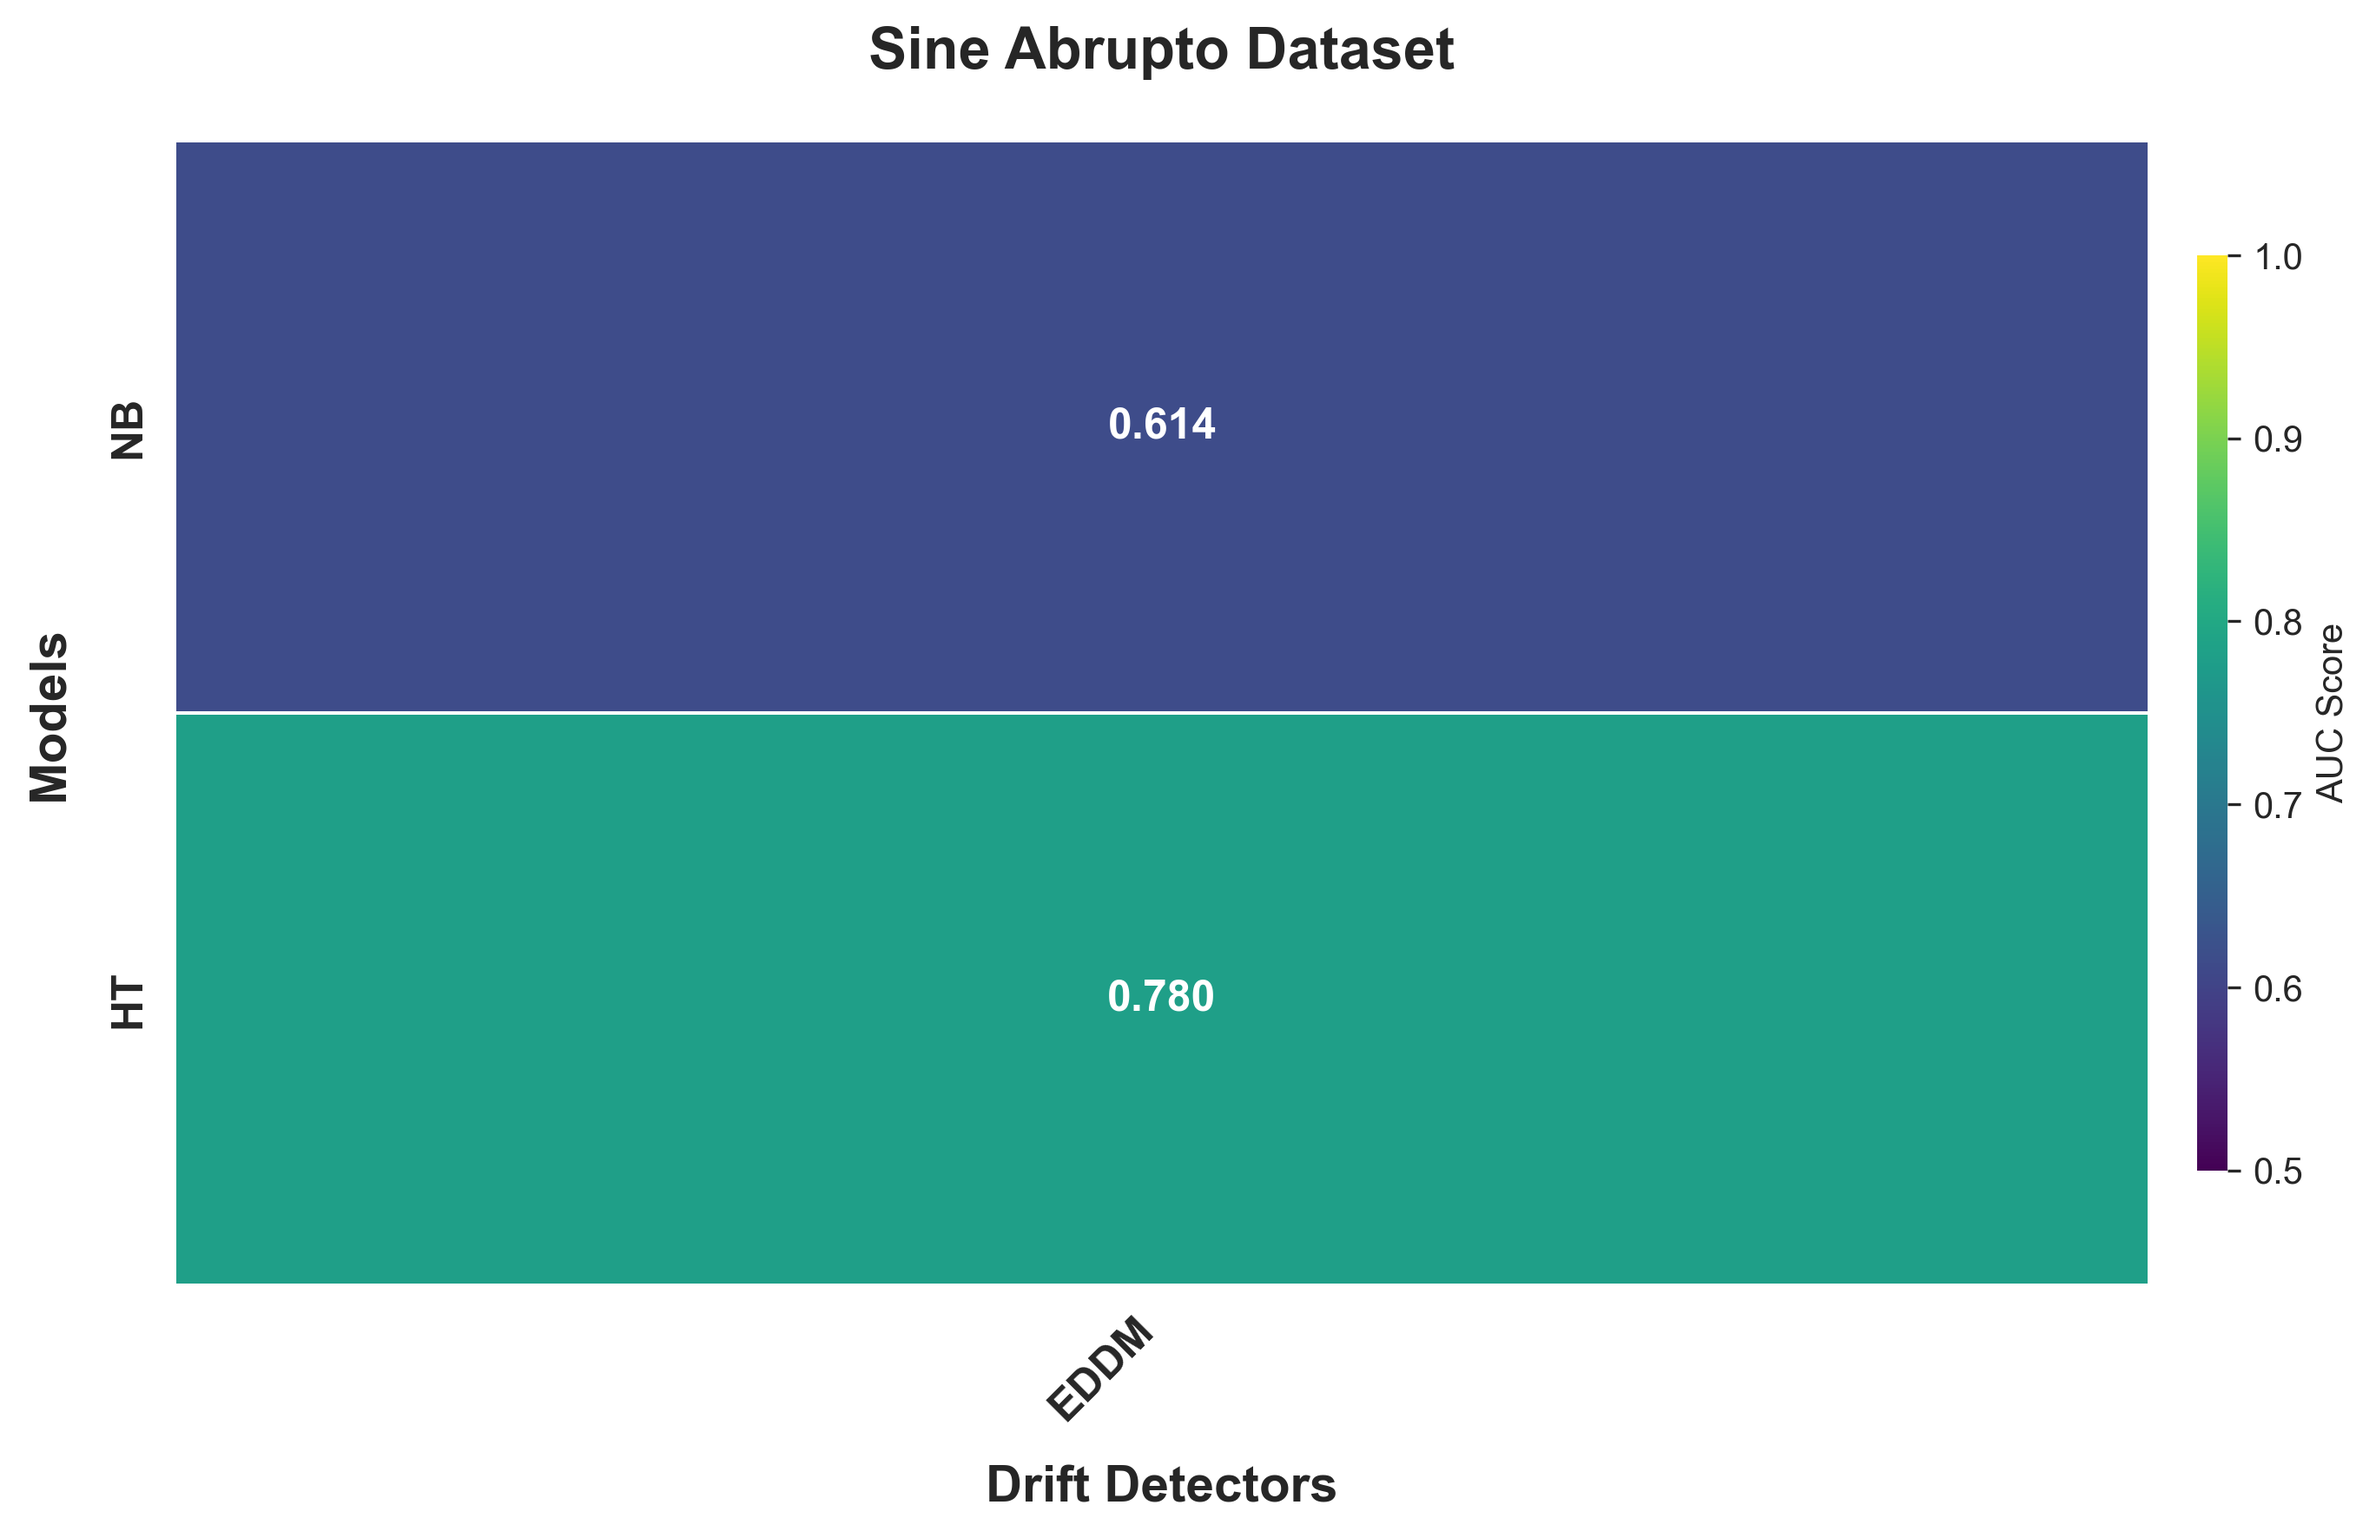
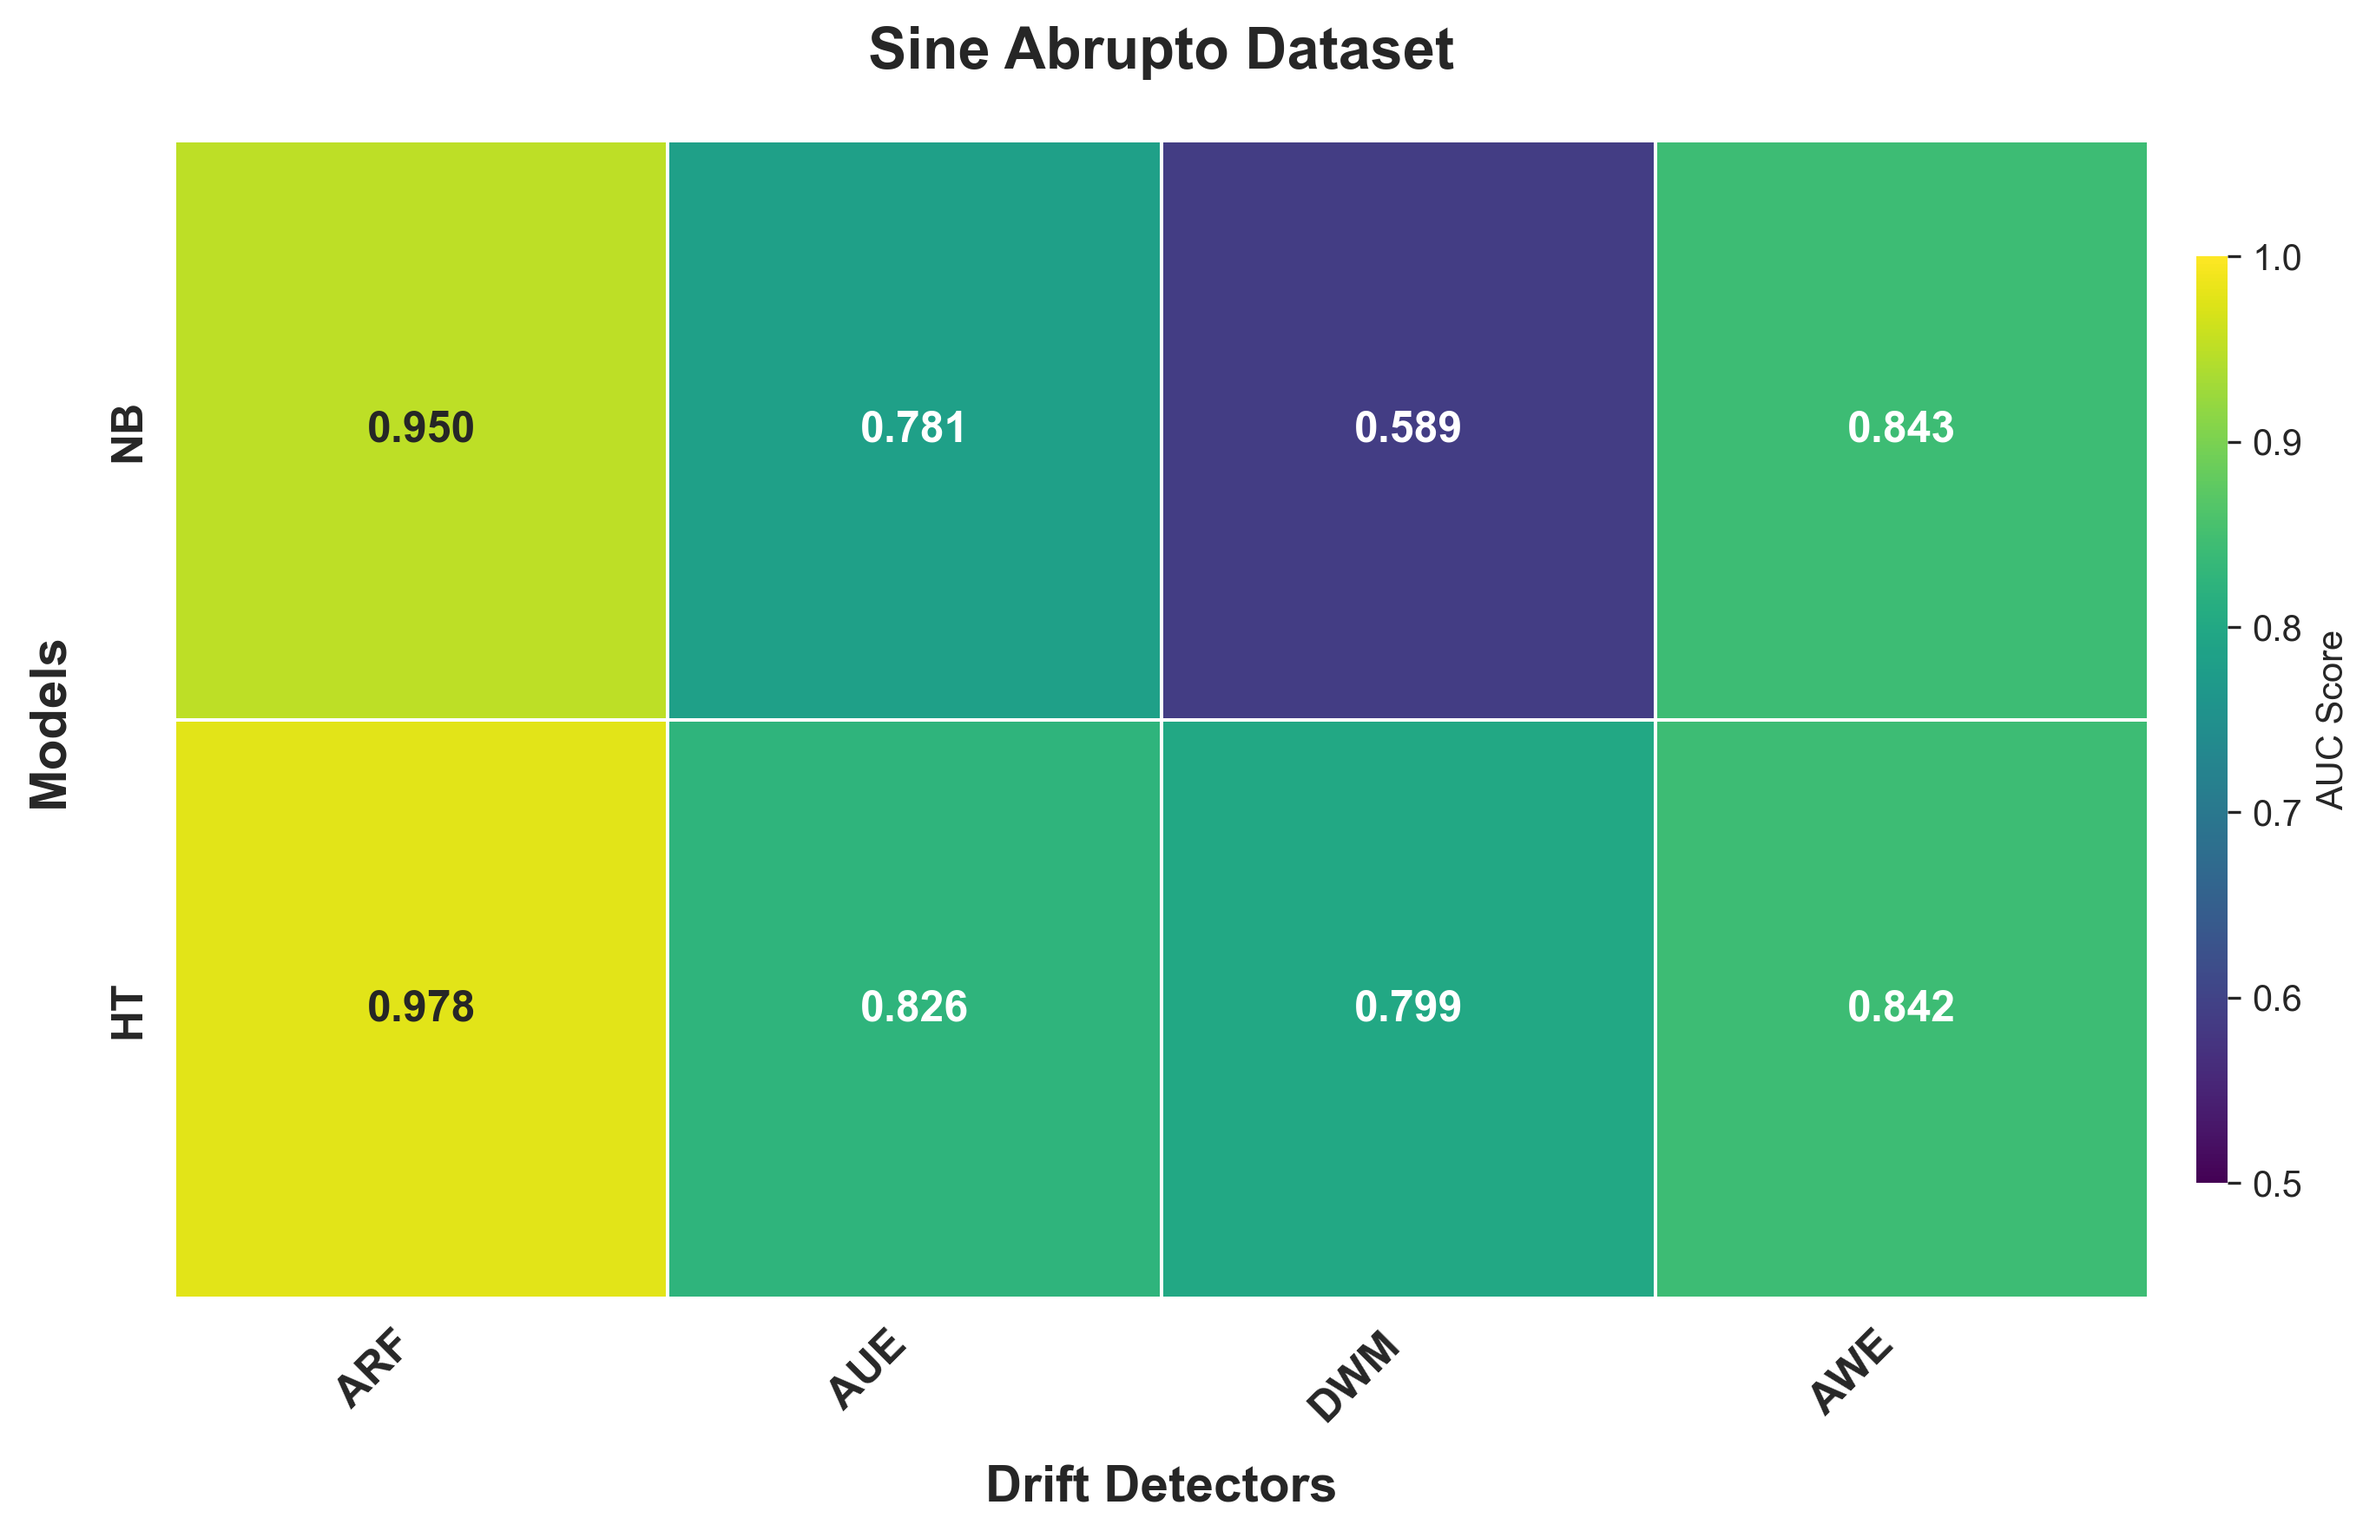
update

diff --git a/concept_drift/d3.py b/concept_drift/d3.py
@@ -7,16 +7,9 @@ import numpy as np
 from typing import Union, List, Tuple, Optional, Literal
 
 class D3DriftDetector:
-    """
-    Discriminative Drift Detector (D3) implementation.
-    
-    This detector identifies concept drift by training a classifier to distinguish
-    between samples from past and current distributions.
-    """
-    
     def __init__(
         self, 
-        window_size: int = 100, 
+        window_size: int = 20, 
         classifier = None, 
         threshold: float = 0.7,
         metric: Literal['accuracy', 'roc_auc'] = 'accuracy'
@@ -36,8 +29,74 @@ class D3DriftDetector:
         self.metric = metric
         self.samples = []
         self.drift_detected = False
+        # track feature keys when samples are dict-like (e.g., River)
+        self.feature_keys = None
         self._validate_params()
         
+    def _to_array(self, samples: List) -> np.ndarray:
+        """
+        Convert a list of samples to a 2D numpy array.
+        Supports samples that are:
+          - dict-like (feature name -> value)
+          - list/tuple/1D numpy arrays (feature vector)
+          - scalar numbers (will be cast to shape (n,1))
+        """
+        if len(samples) == 0:
+            return np.empty((0, 0))
+
+        # If any sample is a dict, construct a feature matrix from dict keys
+        if any(isinstance(s, dict) for s in samples):
+            # compute union of keys across samples to ensure consistent columns
+            keys = sorted(set().union(*(s.keys() for s in samples if isinstance(s, dict))))
+            self.feature_keys = keys
+            rows = []
+            for s in samples:
+                if isinstance(s, dict):
+                    row = []
+                    for k in keys:
+                        v = s.get(k, 0.0)
+                        try:
+                            row.append(float(v))
+                        except Exception:
+                            # fallback to 0.0 for non-convertible entries
+                            row.append(0.0)
+                    rows.append(row)
+                else:
+                    # non-dict sample: try to convert to numeric vector
+                    try:
+                        arr = np.asarray(s, dtype=float).ravel()
+                        # if lengths mismatch, pad/truncate to len(keys)
+                        if arr.size < len(keys):
+                            padded = np.zeros(len(keys), dtype=float)
+                            padded[:arr.size] = arr
+                            rows.append(padded.tolist())
+                        else:
+                            rows.append(arr[:len(keys)].tolist())
+                    except Exception:
+                        rows.append([0.0] * len(keys))
+            return np.asarray(rows, dtype=float)
+
+        # If samples are already sequences/numeric, let numpy handle them
+        try:
+            arr = np.asarray(samples, dtype=float)
+            # If arr is 1D (a list of scalars), convert to column vector
+            if arr.ndim == 1:
+                arr = arr.reshape(-1, 1)
+            return arr
+        except Exception:
+            # fallback: try converting each sample to numeric vector elementwise
+            rows = []
+            for s in samples:
+                try:
+                    row = np.asarray(s, dtype=float).ravel()
+                    rows.append(row)
+                except Exception:
+                    rows.append([0.0])
+            # pad rows to equal length
+            max_len = max(len(r) for r in rows) if rows else 0
+            padded = [list(r) + [0.0] * (max_len - len(r)) for r in rows]
+            return np.asarray(padded, dtype=float)
+    
     def _validate_params(self) -> None:
         """Validate initialization parameters."""
         if not isinstance(self.window_size, int) or self.window_size <= 0:
@@ -83,8 +142,15 @@ class D3DriftDetector:
     
     def _detect_drift(self) -> str:
         """Perform drift detection using the classifier."""
+        # Convert collected samples to numeric arrays (handles dict-like samples)
+        try:
+            samples_array = self._to_array(self.samples)
+        except Exception as e:
+            print(f"Error converting samples to array for drift detection: {e}")
+            self.drift_detected = False
+            return 'no_drift'
+
         # Create past and current windows
-        samples_array = np.array(self.samples)
         X_past = samples_array[:self.window_size]
         X_current = samples_array[-self.window_size:]
         

diff --git a/main.py b/main.py
@@ -60,16 +60,16 @@ drift_detectors = {
     # 'RDDM': RDDMDriftDetector(), # 2017               # warning_threshold=1.773, drift_threshold=2.258
     # 'FHDDM': FHDDMDriftDetector(), # 2016 == River
     # 'EWMA': EWMADriftDetector(), # 2012               # lambda_ = 0.2, min_instances = 30
-    'EDDM': EDDMDriftDetector(), # 2006 == River
+    # 'EDDM': EDDMDriftDetector(), # 2006 == River
     # Window-Based Drift Detectors
-    # 'KSWIN': KSWINDriftDetector(), #2020 == River
-    # 'FPDD': FPDDDriftDetector(), # 2018                 # window_size = 30, alpha = 0.05
-    # 'WSTD': WSTDDriftDetector(), # 2018                 # window_size = 100, alpha=0.05, warning_threshold=0.10
-    # 'MDDM': MDDMDriftDetector(), #2018                  # window_size=50, confidence_level=0.05
-    # 'ADWIN': ADWINDriftDetector(), # 2007 == River
+    'KSWIN': KSWINDriftDetector(), #2020 == River
+    'FPDD': FPDDDriftDetector(), # 2018                 # window_size = 30, alpha = 0.05
+    'WSTD': WSTDDriftDetector(), # 2018                 # window_size = 100, alpha=0.05, warning_threshold=0.10
+    'MDDM': MDDMDriftDetector(), #2018                  # window_size=50, confidence_level=0.05
+    'ADWIN': ADWINDriftDetector(), # 2007 == River
+    'D3': D3DriftDetector(), #2015                    # window_size=100, threshold=0.7
     # Ensemble-Based Drift Detectors
     # 'ARF': ARFDriftDetector(), # 2017                 # lambda_value=6, warning_window_size=50, drift_window_size=30, warning_threshold=0.85, drift_threshold=0.75
-    # 'D3': D3DriftDetector(), #2015                    # window_size=100, threshold=0.7
     # 'AUE': AUEDriftDetector(), # 2011                 # ensemble_size=10, chunk_size=100
     # 'DWM': DWMDriftDetector(), # 2007                 # beta=0.5, theta=0.1, period=50
     # 'AWE': AWEDriftDetector(), # 2003                 # chunk_size=50, ensemble_size=5
@@ -89,8 +89,8 @@ for load_func, dataset_name in datasets:
         df_name, X, y = load_func()
 
         # Print the first 5 rows of the features
-        print(f"Head of {dataset_name} dataset:")
-        print(pd.DataFrame(X).head())
+        # print(f"Head of {dataset_name} dataset:")
+        # print(pd.DataFrame(X).head())
 
         # Print unique labels for the dataset
         print(f"Labels for {dataset_name}: {set(y)}")
@@ -115,11 +115,11 @@ for load_func, dataset_name in datasets:
                 data_auc[model_name][detector_name] = auc_value
                 
                 # Print metrics
-                print(f"Accuracy: {metric}")
-                print(f"Precision: {metric_precision}")
-                print(f"F1: {metric_f1}")
+                # print(f"Accuracy: {metric}")
+                # print(f"Precision: {metric_precision}")
+                # print(f"F1: {metric_f1}")
                 print(f"AUC: {auc_value}")
-                print(f"AUROC: {auroc_value}")
+                # print(f"AUROC: {auroc_value}")
         
         # Store results for this dataset
         results[dataset_name] = pd.DataFrame.from_dict(data_auc, orient='index')

diff --git a/concept_drift/adwin.py b/concept_drift/adwin.py
@@ -1,15 +1,51 @@
+# from river.drift import ADWIN
+
+# class ADWINDriftDetector:
+#     def __init__(self):
+#         self.detector = ADWIN(min_window_length = 100, delta=0.002)
+#         self.drift_detected = False
+
+#     def update(self, prediction, true_label):
+#         # Update the drift detector with the error
+#         self.detector.update(prediction != true_label)
+#         if self.detector.drift_detected:
+#             self.drift_detected = True
+#             # self.detector.reset()  # Reset the detector after drift is detected
+#         else:
+#             self.drift_detected = False
+
+
+
+from collections import deque
+from statistics import mean
 from river.drift import ADWIN
 
 class ADWINDriftDetector:
-    def __init__(self):
-        self.detector = ADWIN(width = 100)
+    def __init__(self, W=20, delta=0.002):
+        self.W = W
+        self.delta = delta
+        self.detector = ADWIN(delta=self.delta)
+        self.buf = deque(maxlen=W)
+        self.drift_detected = False
+
+    def reset(self):
+        self.detector = ADWIN(delta=self.delta)
+        self.buf.clear()
         self.drift_detected = False
 
     def update(self, prediction, true_label):
-        # Update the drift detector with the error
-        self.detector.update(prediction != true_label)
-        if self.detector.drift_detected:
-            self.drift_detected = True
-            # self.detector.reset()  # Reset the detector after drift is detected
+        err = int(prediction != true_label)
+        self.buf.append(err)
+
+        # only feed when buffer is "full" to emulate width W
+        if len(self.buf) == self.buf.maxlen:
+            # aggregated error (e.g., mean over W)
+            agg = mean(self.buf)
+            self.detector.update(agg)
+
+            self.drift_detected = bool(
+                getattr(self.detector, "change_detected", False) or
+                getattr(self.detector, "drift_detected", False)
+            )
         else:
             self.drift_detected = False

diff --git a/concept_drift/arf.py b/concept_drift/arf.py
@@ -19,8 +19,8 @@ class ARFDriftDetector:
                  n_models=10, 
                  max_features='sqrt', 
                  lambda_value=6,
-                 warning_window_size=50,
-                 drift_window_size=30,
+                 warning_window_size=100,
+                 drift_window_size=100,
                  warning_threshold=0.85,
                  drift_threshold=0.75,
                  seed=None):

diff --git a/concept_drift/awe.py b/concept_drift/awe.py
@@ -176,7 +176,7 @@ from river import base, naive_bayes
 from sklearn.metrics import mean_squared_error
 
 class AWEDriftDetector:
-    def __init__(self, chunk_size=50, ensemble_size=5):
+    def __init__(self, chunk_size=100, ensemble_size=5):
         base_model=naive_bayes.GaussianNB()
         self.base_model = base_model
         self.chunk_size = chunk_size

diff --git a/concept_drift/mddm.py b/concept_drift/mddm.py
@@ -57,7 +57,7 @@ import math
 
 
 class MDDMDriftDetector:
-    def __init__(self, window_size=50, confidence_level=0.05):
+    def __init__(self, window_size=20, confidence_level=0.05):
         """
         Initialize the MDDM detector with a sliding window size and confidence level.
         

diff --git a/concept_drift/wstd.py b/concept_drift/wstd.py
@@ -10,7 +10,7 @@ class WSTDDriftDetector:
     distributional shifts in the data stream.
     """
     
-    def __init__(self, window_size=100, 
+    def __init__(self, window_size=20, 
                  alpha=0.05, 
                  warning_threshold=0.10,
                  min_samples=10,

diff --git a/concept_drift/kswin.py b/concept_drift/kswin.py
@@ -3,7 +3,7 @@ from river.drift import KSWIN
 
 class KSWINDriftDetector:
     def __init__(self):
-        self.detector = KSWIN()
+        self.detector = KSWIN(window_size = 20, stat_size = 10)
         self.drift_detected = False
 
     def update(self, prediction, true_label):

diff --git a/concept_drift/fpdd.py b/concept_drift/fpdd.py
@@ -3,7 +3,7 @@ import numpy as np
 from scipy.stats import fisher_exact
 
 class FPDDDriftDetector:
-    def __init__(self, window_size=30, alpha=0.05):
+    def __init__(self, window_size=20, alpha=0.05):
         """
         Fisher Proportions Drift Detector (FPDD)
 

diff --git a/concept_drift/dwm.py b/concept_drift/dwm.py
@@ -150,7 +150,7 @@ class DWMDriftDetector:
         n_classes=2,
         beta=0.5,
         theta=0.1,
-        period=50
+        period=100
     ):
         """
         Dynamic Weighted Majority (DWM) drift detector and ensemble learner
